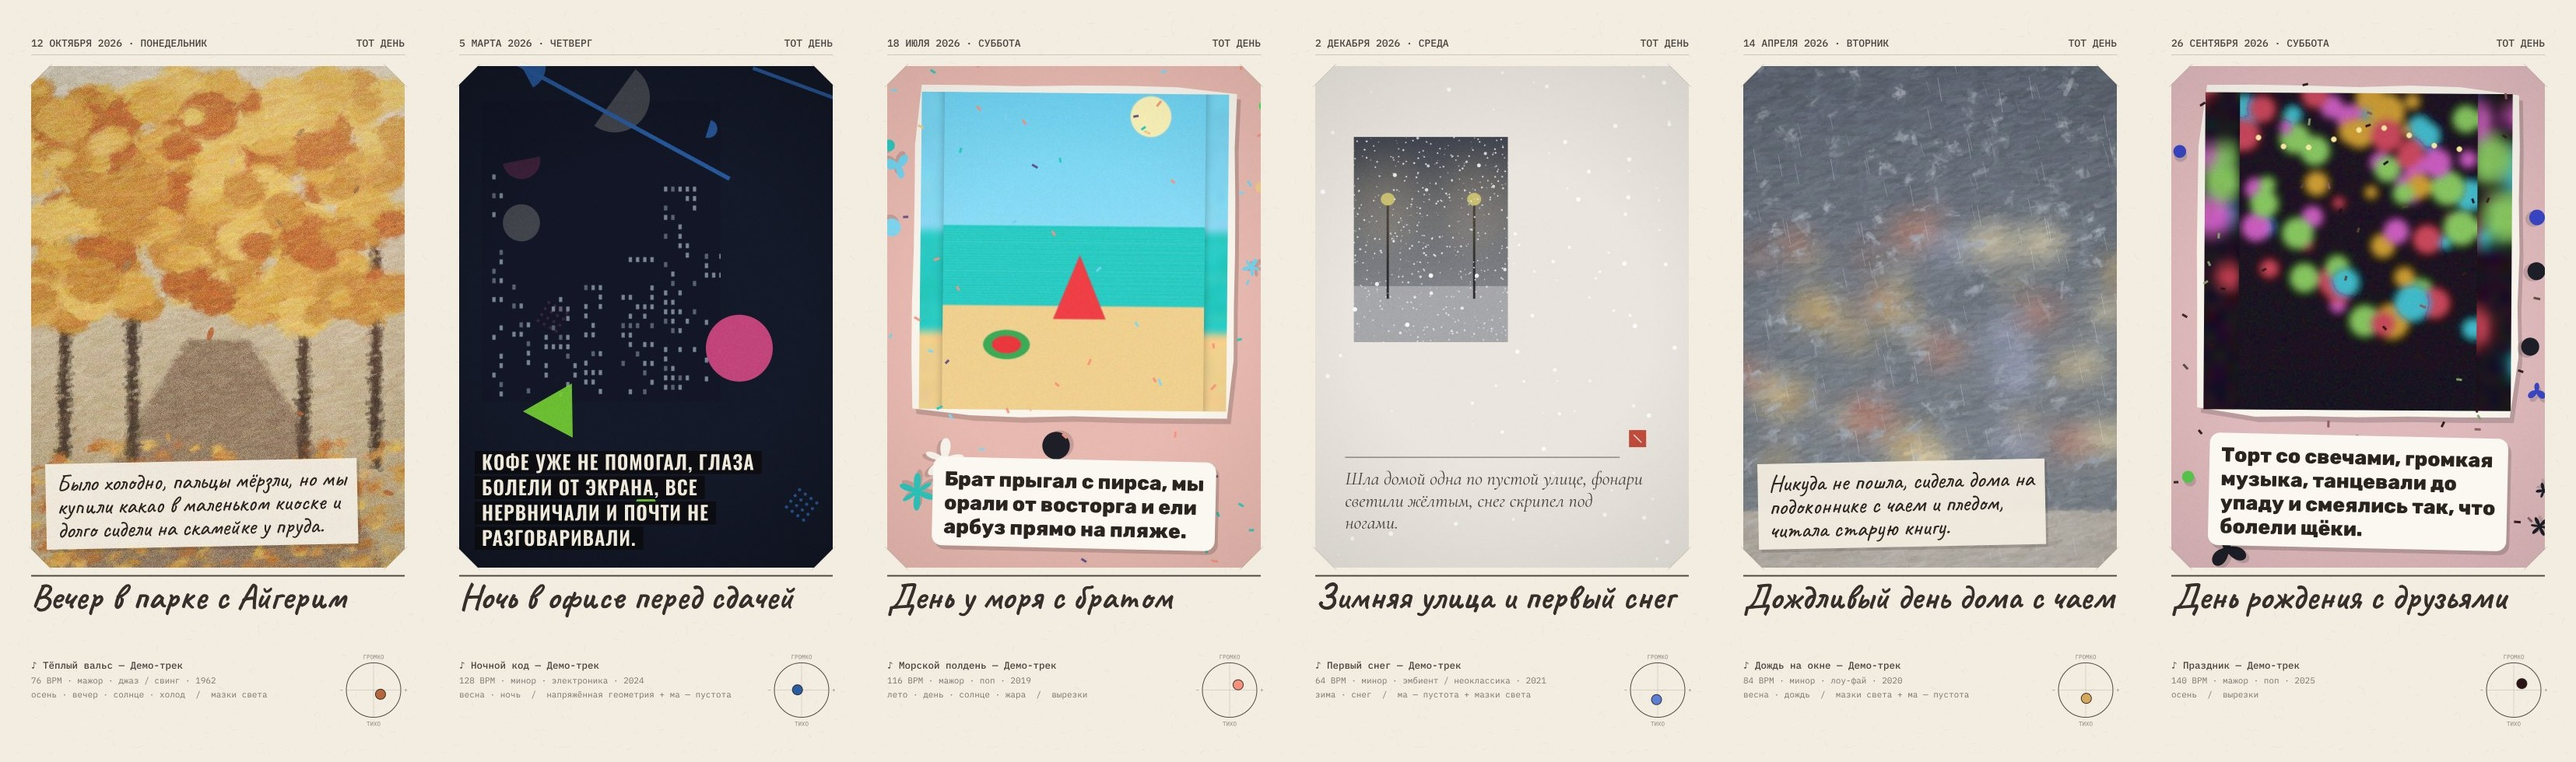
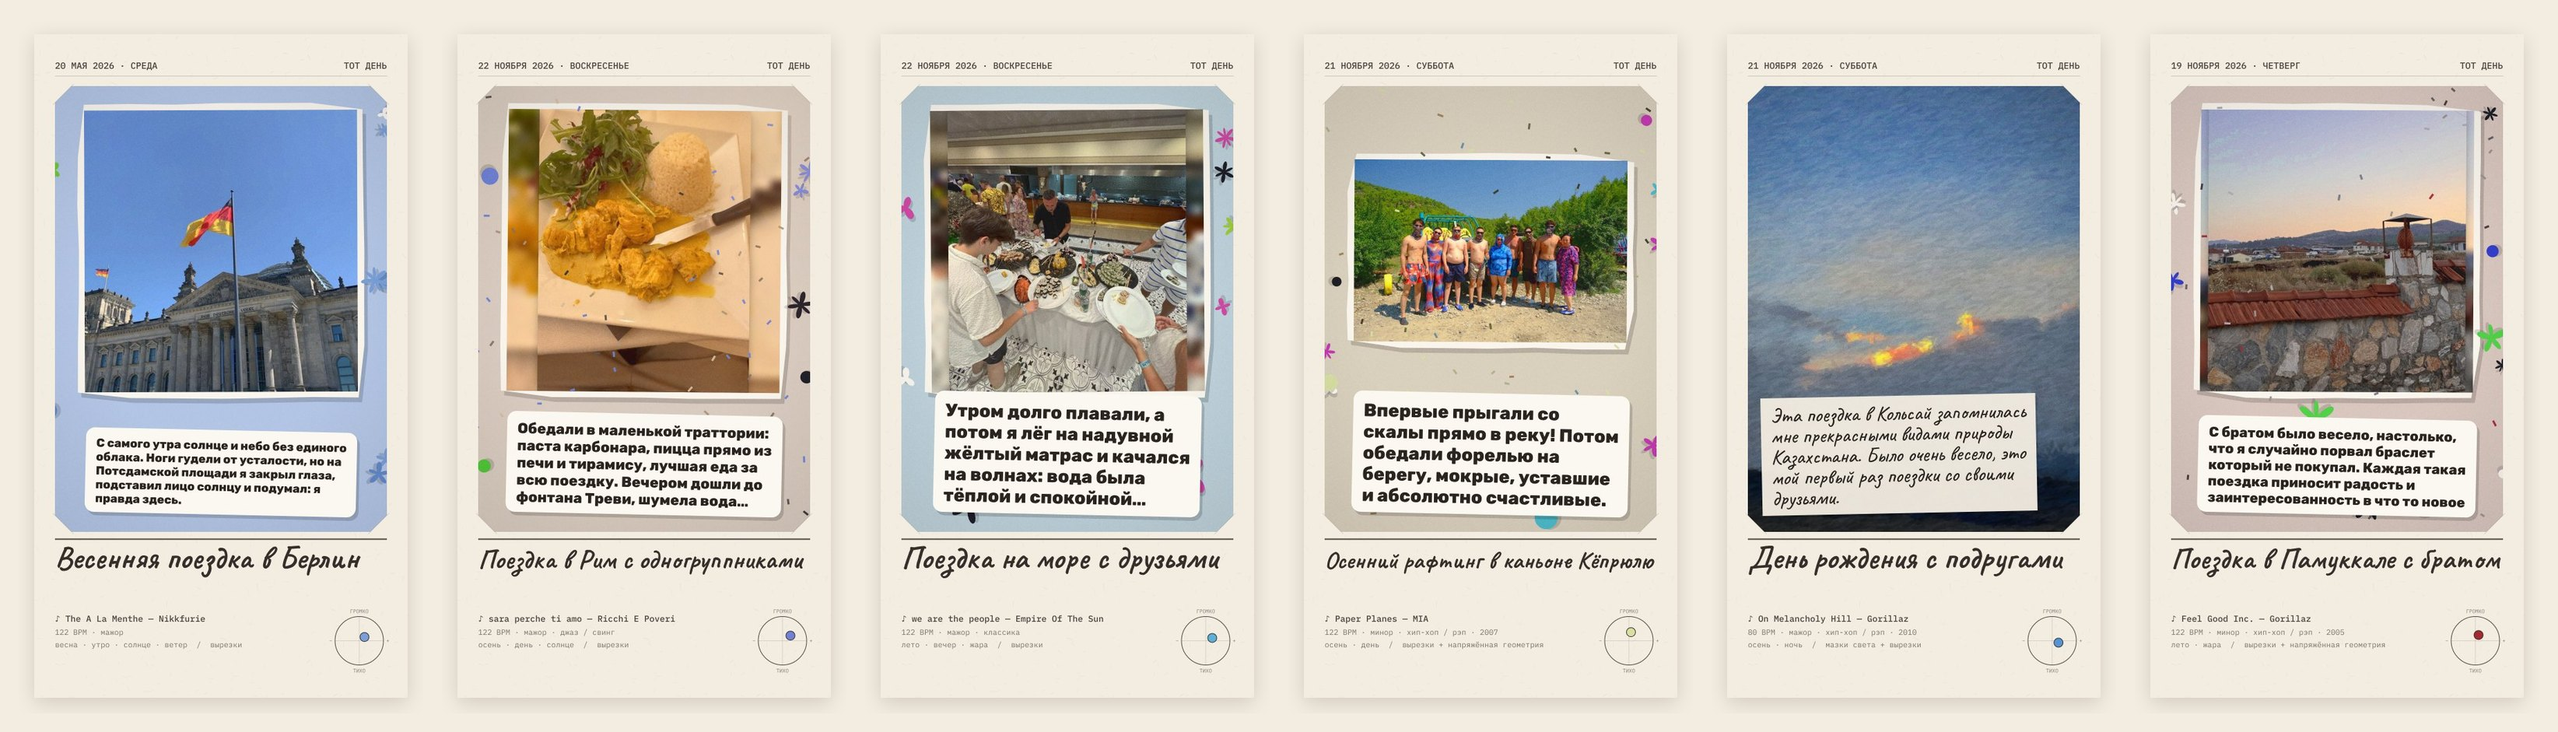
README pictures from the team's real days
lenta.jpg and the single pages in docs/examples are now the covers of Berlin, Rome, the sea,
rafting, the birthday at Kolsai and Pamukkale, built by the app from demo/days.json.

Claude-Session: https://claude.ai/code/session_01ExfuirR1niP3PWZ9iqYzHu

diff --git a/README.md b/README.md
@@ -4,7 +4,7 @@
 
 Прототип для RecGenesis Hackathon, трек ArtTech, кейс «Make the Invisible Visible».
 
-![Лента из шести дней](docs/examples/lenta.jpg)
+![Лента из шести настоящих дней команды: Берлин, Рим, море, рафтинг, день рождения, Памуккале](docs/examples/lenta.jpg)
 
 ## Запуск
 
